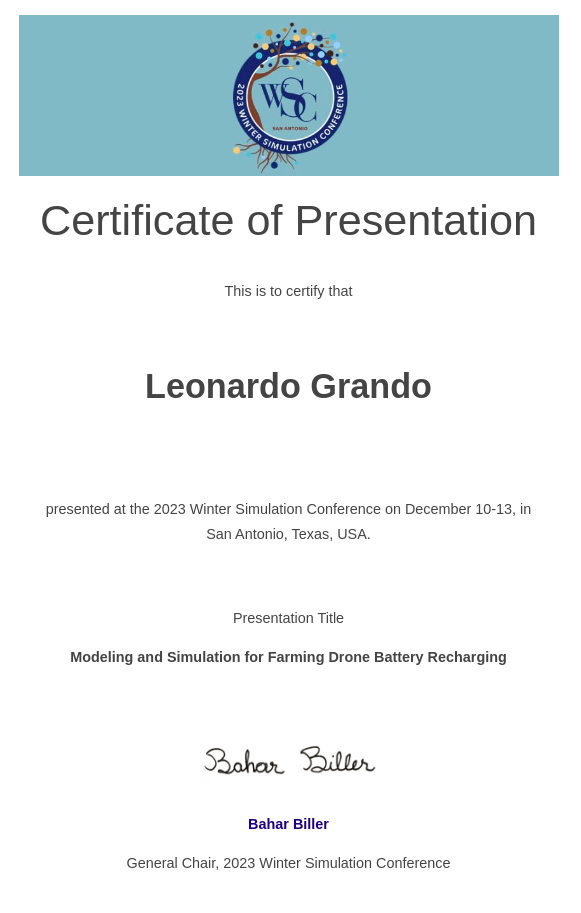
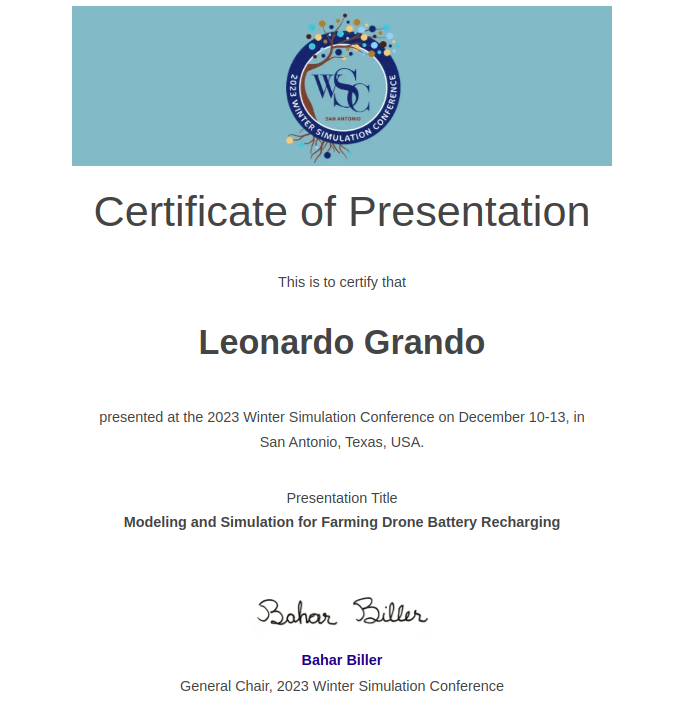
prese

diff --git a/talk/wsc-2023/index.html b/talk/wsc-2023/index.html
@@ -888,9 +888,9 @@
 </div>
 
 
-<div class="article-header article-container featured-image-wrapper mt-4 mb-4" style="max-width: 581px; max-height: 913px;">
+<div class="article-header article-container featured-image-wrapper mt-4 mb-4" style="max-width: 679px; max-height: 720px;">
   <div style="position: relative">
-    <img src="/talk/wsc-2023/Featured_hu760bb29af5a79a8ac9a5c3d8450c9b25_84131_720x2500_fit_q75_h2_lanczos_3.webp" width="581" height="913" alt="" class="featured-image">
+    <img src="/talk/wsc-2023/Featured_hu7c4ecc28429328c41a85e88765bc4aa0_79764_720x2500_fit_q75_h2_lanczos_3.webp" width="679" height="720" alt="" class="featured-image">
     
   </div>
 </div>

diff --git a/event/index.html b/event/index.html
@@ -1093,7 +1093,7 @@
     
       
       <a href="/talk/wsc-2023/" >
-        <img src="/talk/wsc-2023/Featured_hu760bb29af5a79a8ac9a5c3d8450c9b25_84131_150x0_resize_q75_h2_lanczos_3.webp" height="236" width="150"
+        <img src="/talk/wsc-2023/Featured_hu7c4ecc28429328c41a85e88765bc4aa0_79764_150x0_resize_q75_h2_lanczos_3.webp" height="159" width="150"
             alt="WSC 2023" loading="lazy">
       </a>
     

diff --git a/tag/agent-based/index.html b/tag/agent-based/index.html
@@ -1076,7 +1076,7 @@
     
       
       <a href="/talk/wsc-2023/" >
-        <img src="/talk/wsc-2023/Featured_hu760bb29af5a79a8ac9a5c3d8450c9b25_84131_150x0_resize_q75_h2_lanczos_3.webp" height="236" width="150"
+        <img src="/talk/wsc-2023/Featured_hu7c4ecc28429328c41a85e88765bc4aa0_79764_150x0_resize_q75_h2_lanczos_3.webp" height="159" width="150"
             alt="WSC 2023" loading="lazy">
       </a>
     

diff --git a/tag/drones/index.html b/tag/drones/index.html
@@ -1076,7 +1076,7 @@
     
       
       <a href="/talk/wsc-2023/" >
-        <img src="/talk/wsc-2023/Featured_hu760bb29af5a79a8ac9a5c3d8450c9b25_84131_150x0_resize_q75_h2_lanczos_3.webp" height="236" width="150"
+        <img src="/talk/wsc-2023/Featured_hu7c4ecc28429328c41a85e88765bc4aa0_79764_150x0_resize_q75_h2_lanczos_3.webp" height="159" width="150"
             alt="WSC 2023" loading="lazy">
       </a>
     

diff --git a/tag/farm/index.html b/tag/farm/index.html
@@ -1076,7 +1076,7 @@
     
       
       <a href="/talk/wsc-2023/" >
-        <img src="/talk/wsc-2023/Featured_hu760bb29af5a79a8ac9a5c3d8450c9b25_84131_150x0_resize_q75_h2_lanczos_3.webp" height="236" width="150"
+        <img src="/talk/wsc-2023/Featured_hu7c4ecc28429328c41a85e88765bc4aa0_79764_150x0_resize_q75_h2_lanczos_3.webp" height="159" width="150"
             alt="WSC 2023" loading="lazy">
       </a>
     

diff --git a/tag/presentation/index.html b/tag/presentation/index.html
@@ -1076,7 +1076,7 @@
     
       
       <a href="/talk/wsc-2023/" >
-        <img src="/talk/wsc-2023/Featured_hu760bb29af5a79a8ac9a5c3d8450c9b25_84131_150x0_resize_q75_h2_lanczos_3.webp" height="236" width="150"
+        <img src="/talk/wsc-2023/Featured_hu7c4ecc28429328c41a85e88765bc4aa0_79764_150x0_resize_q75_h2_lanczos_3.webp" height="159" width="150"
             alt="WSC 2023" loading="lazy">
       </a>
     

diff --git a/tag/simulation/index.html b/tag/simulation/index.html
@@ -1076,7 +1076,7 @@
     
       
       <a href="/talk/wsc-2023/" >
-        <img src="/talk/wsc-2023/Featured_hu760bb29af5a79a8ac9a5c3d8450c9b25_84131_150x0_resize_q75_h2_lanczos_3.webp" height="236" width="150"
+        <img src="/talk/wsc-2023/Featured_hu7c4ecc28429328c41a85e88765bc4aa0_79764_150x0_resize_q75_h2_lanczos_3.webp" height="159" width="150"
             alt="WSC 2023" loading="lazy">
       </a>
     
